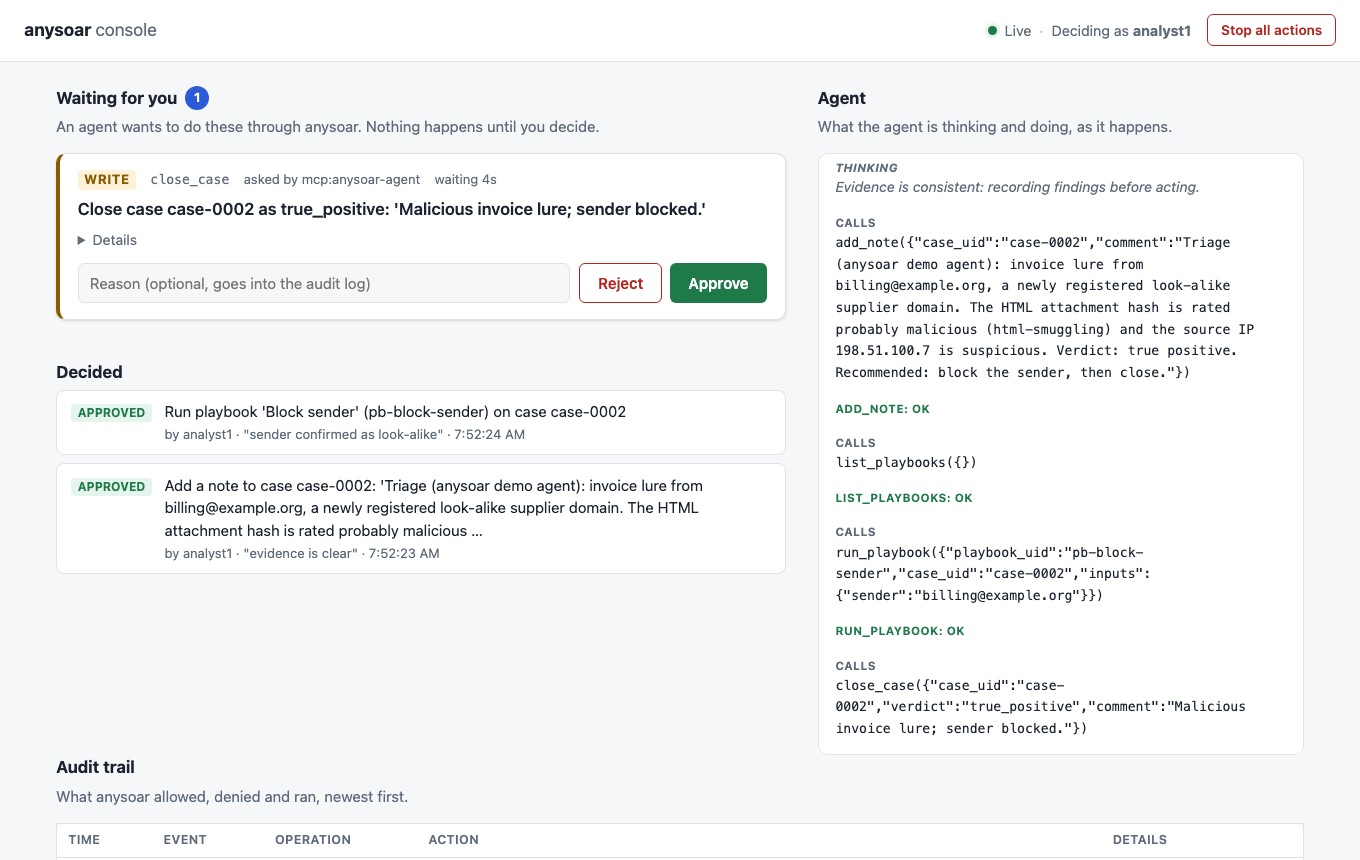
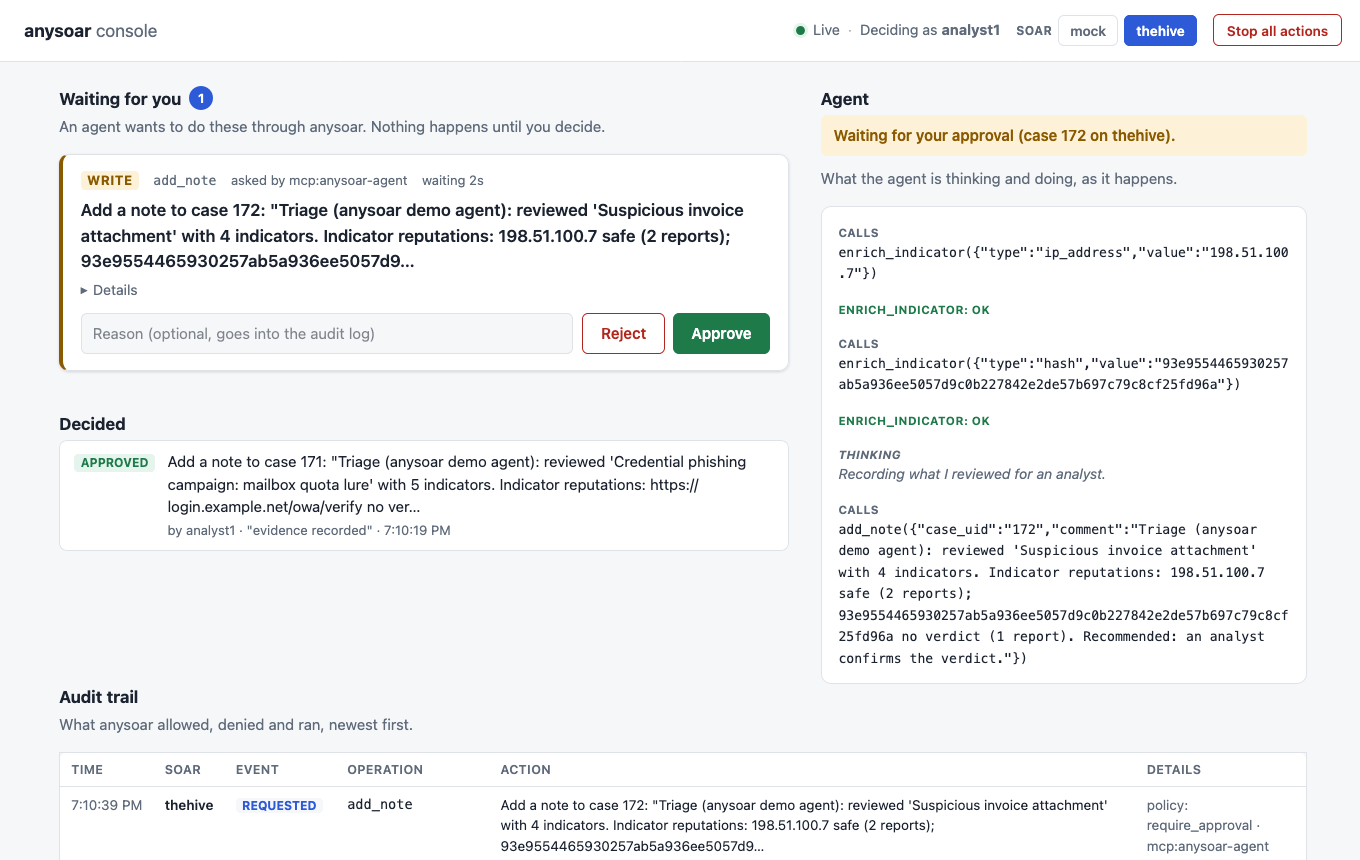
docs: refresh the console screenshot for TheHive and the status line
Recaptured docs/images/console.png (same 1360x860, light mode) from a
real run against the TheHive lab: the SOAR switch on thehive, the agent
status line waiting for approval, Cortex lookups in the feed, an approved
note with its reason, and the audit trail's SOAR column. Alt text in both
READMEs describes the new picture.

diff --git a/README.md b/README.md
@@ -150,7 +150,7 @@ Drop `--provider demo` and set `ANTHROPIC_API_KEY` to let Claude do the triage.
 agents want to do, watch their reasoning as it happens, follow the audit trail, and stop
 everything with one button.
 
-![The anysoar console: an action waiting for approval, decisions with reasons, and the agent's reasoning and tool calls](docs/images/console.png)
+![The anysoar console switched to TheHive: the agent's note waiting for approval, an earlier note approved with a reason, the agent looking indicators up with Cortex, and the audit trail](docs/images/console.png)
 
 ```bash
 uv run anysoar-console                               # prints a sign-in link; open it

diff --git a/packages/anysoar/README.md b/packages/anysoar/README.md
@@ -10,7 +10,7 @@ destructive actions are blocked, everything is audited, and a kill switch stops 
 > **Status: pre-alpha.** Expect breaking changes. Source, docs and a one-command demo:
 > <https://github.com/ag3ntsc4rn/anysoar>
 
-![The anysoar console: an agent's action waiting for approval, and its reasoning as it works](https://raw.githubusercontent.com/ag3ntsc4rn/anysoar/main/docs/images/console.png)
+![The anysoar console switched to TheHive: an agent's note waiting for approval, and the agent looking indicators up as it works](https://raw.githubusercontent.com/ag3ntsc4rn/anysoar/main/docs/images/console.png)
 
 ## Install
 
